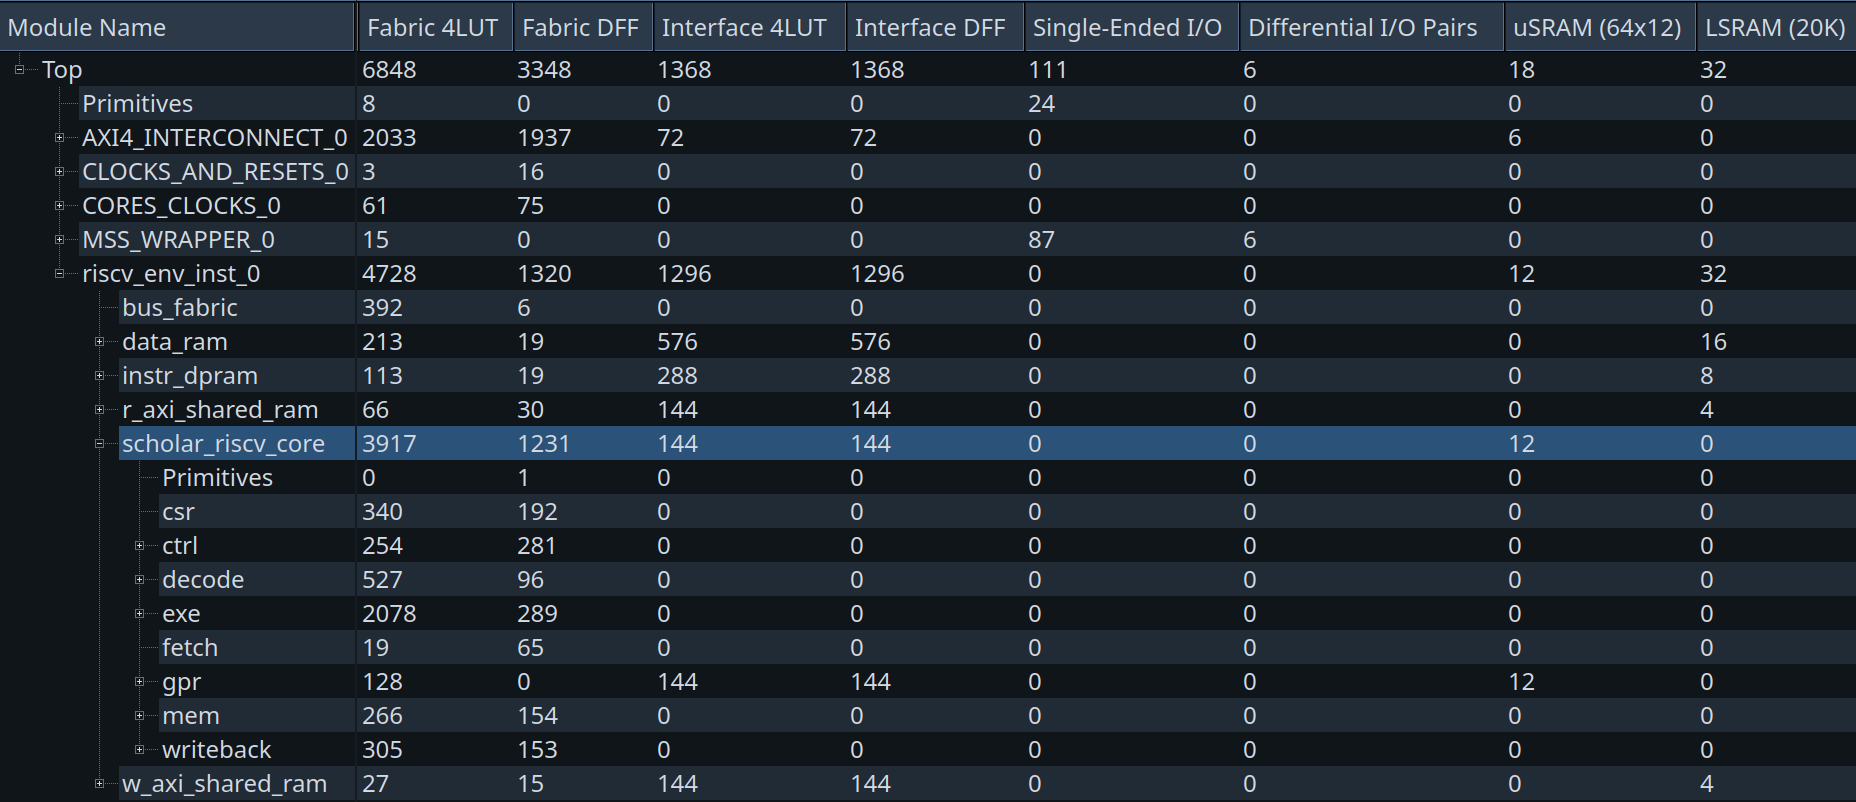
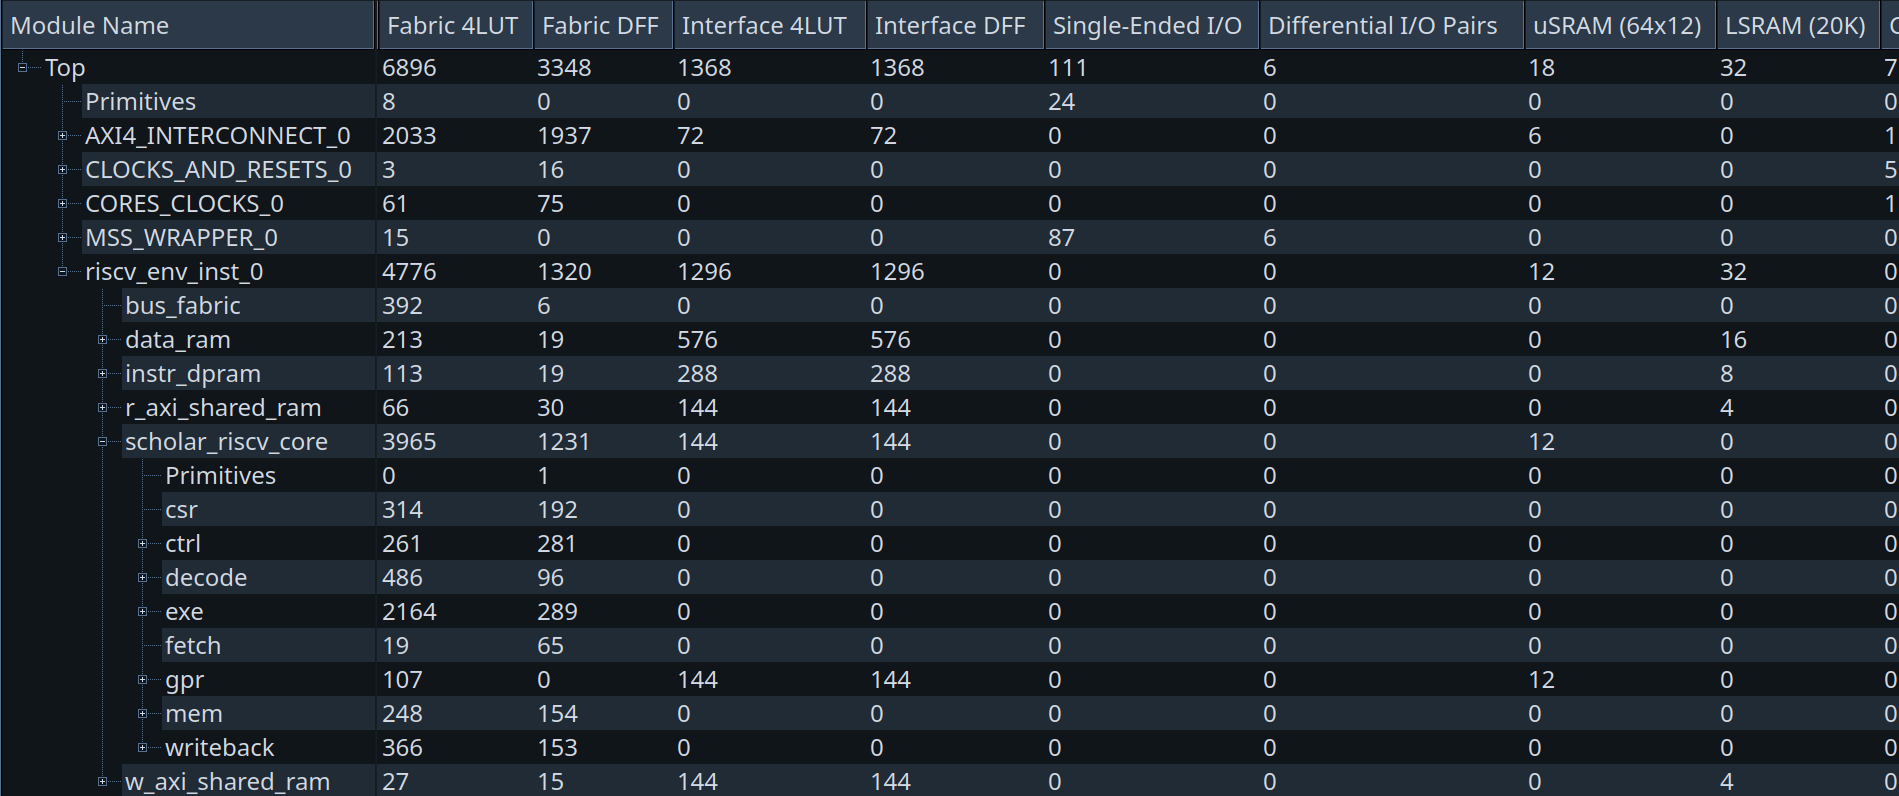
perf: Improve Fmax by changing libero options
Computed Fmax by Libero was not representative as Libero focused on the AXI clock.

To 'hint' libero to focus on the core clock, a constrain has been added and some place and route options has been changed.

Moreover, a little fix has been added to avoid counting data hazard while under softreset (branch).

diff --git a/README.md b/README.md
@@ -354,8 +354,8 @@ Below is a summary of synthesis results on a PolarFire MPFS095T FPGA:
 
 | **Architecture**              | **Features**                                    | **CycleMark/MHz** | **FPGA Resources & Performance (PolarFire MPFS095T)**                          |
 | ----------------------------- | ----------------------------------------------- | ----------------- | ------------------------------------------------------------------------------ |
-| **RV32I + `CSR*` (Zicntr)** | single-issue pipelined RISC-V processor | 0.55             | LEs: 2015 (782 FFs)<br>Fmax: 134 MHz<br>uSRAM: 6<br>LSRAM: 0<br>Math blocks: 0 |
-| **RV64I + `CSR*` (Zicntr)** | single-issue pipelined RISC-V processor (64-bit datapath) | 0.45              | LEs: 3917 (1231 FFs)<br>Fmax: 111 MHz<br>uSRAM: 12<br>LSRAM: 0<br>Math blocks: 0 |
+| **RV32I + `CSR*` (Zicntr)** | single-issue pipelined RISC-V processor | 0.55             | LEs: 2023 (782 FFs)<br>Fmax: 172 MHz<br>uSRAM: 6<br>LSRAM: 0<br>Math blocks: 0 |
+| **RV64I + `CSR*` (Zicntr)** | single-issue pipelined RISC-V processor (64-bit datapath) | 0.45              | LEs: 3965 (1231 FFs)<br>Fmax: 155 MHz<br>uSRAM: 12<br>LSRAM: 0<br>Math blocks: 0 |
 
 > 📝
 >
@@ -1498,8 +1498,8 @@ As for the **single-cycle** version, the performance of the **SCHOLAR RISC-V** p
 
 | **Architecture**                  | **CycleMark/MHz** | **FPGA Resources & Performance (PolarFire MPFS095T)**                          |
 |----------------------------------|------------------:|--------------------------------------------------------------------------------|
-| **RV32I + `CSR*` (Zicntr)**      | 0.55              | LEs: 2015 (782 FFs)<br>Fmax: 134 MHz<br>uSRAM: 6<br>LSRAM: 0<br>Math blocks: 0 |
-| **RV64I + `mcycle` (Zicntr)**    | 0.45              | LEs: 3917 (1231 FFs)<br>Fmax: 111 MHz<br>uSRAM: 12<br>LSRAM: 0<br>Math blocks: 0 |
+| **RV32I + `CSR*` (Zicntr)**      | 0.55              | LEs: 2023 (782 FFs)<br>Fmax: 172 MHz<br>uSRAM: 6<br>LSRAM: 0<br>Math blocks: 0 |
+| **RV64I + `mcycle` (Zicntr)**    | 0.45              | LEs: 3965 (1231 FFs)<br>Fmax: 155 MHz<br>uSRAM: 12<br>LSRAM: 0<br>Math blocks: 0 |
 
 > 📝 `CSR*`: `mcycle`, `mhpmcounter3` and `mhpmcounter4`.
 
@@ -1517,10 +1517,10 @@ The **RV32I** pipelined core achieves **0.55** CycleMark/MHz (versus **1.24** fo
 
 This is the trade-off of increasing the maximum operating frequency.<br>
 As shown in the plot, among the **1,829,338** cycles required to execute one CycleMark iteration:
-- **665,325** cycles are lost due to **data hazard** handling (**Decode** stalls),
+- **658,179** cycles are lost due to **data hazard** handling (**Decode** stalls),
 - **145,975 × 3 = 437,925** cycles are lost due to **control hazard** handling (front-end flush on taken control-flow).
 
-This represents **1,103,250** cycles (more than half the total) where the core is not retiring useful instructions, explaining why CycleMark/MHz is significantly lower than in the **single-cycle** version.
+This represents **1,096,104** cycles (more than half the total) where the core is not retiring useful instructions, explaining why CycleMark/MHz is significantly lower than in the **single-cycle** version.
 
 Comparison data (CoreMark scores, which CycleMark is derived from) can be found in the [ARM Cortex-M Comparison Table](https://developer.arm.com/-/media/Arm%20Developer%20Community/PDF/Cortex-A%20R%20M%20datasheets/Arm%20Cortex-M%20Comparison%20Table_v3.pdf).
 
@@ -1530,7 +1530,7 @@ Comparison data (CoreMark scores, which CycleMark is derived from) can be found 
 
 ### Maximum Frequency
 
-In return to a lower CycleMark/MHz score, this microarchitecture provides a higher frequency (**134 MHz**) than the **single-cycle** version (**69 MHz**), allowing more cycles per second.
+In return to a lower CycleMark/MHz score, this microarchitecture provides a higher frequency (**172 MHz**) than the **single-cycle** version (**74 MHz**), allowing more cycles per second.
 
 The current critical path is:  
 `data memory → Writeback → GPRs`  
@@ -1553,8 +1553,8 @@ As shown earlier, the current implementation has an IPC below `1` due to hazard 
 ### Resource Utilization and Cost Insights
 
 From a resource perspective, the processor appears more compact than the **single-cycle** version:
-  - 2015 logic elements (782 as flip-flops) for **RV32I**.
-  - 3917 logic elements (1231 as flip-flops) for **RV64I**.
+  - 2023 logic elements (782 as flip-flops) for **RV32I**.
+  - 3965 logic elements (1231 as flip-flops) for **RV64I**.
   - A few uSRAM blocks for the GPRs.
   - No hardware multipliers or DSP blocks.
 
@@ -1575,12 +1575,12 @@ The remaining flip-flops are mostly used to register bundles between pipeline st
 ## Conclusion
 
 The **pipelined** version of the **SCHOLAR RISC-V** processor focuses on improving clock frequency.  
-Even though this goal is achieved (**~94%** improvement), overall benchmark throughput decreases:
+Even though this goal is achieved (**~132%** improvement), the overall improvement is limited:
 
-- Pipeline: `134 MHz × 0.55 ≈ 74 CycleMark/s`
-- Single-cycle: `69 MHz × 1.24 ≈ 86 CycleMark/s`
+- Pipeline: `172 MHz × 0.55 ≈ 94.6 CycleMark/s`
+- Single-cycle: `74 MHz × 1.24 ≈ 91.8 CycleMark/s`
 
-This performance loss is mainly caused by the drawbacks of this simple pipeline implementation: **RAW data hazards** (stalls) and **control hazards** (flushes).
+This limitation is mainly caused by the drawbacks of this simple pipeline implementation: **RAW data hazards** (stalls) and **control hazards** (flushes).
 
 This does not mean pipelining is a wrong optimization strategy — it is simply incomplete on its own.<br>
 The next iteration of this project will focus on mitigating data hazards (e.g., forwarding/bypassing), and studying the implementation cost, benefits, and trade-offs.<br>
